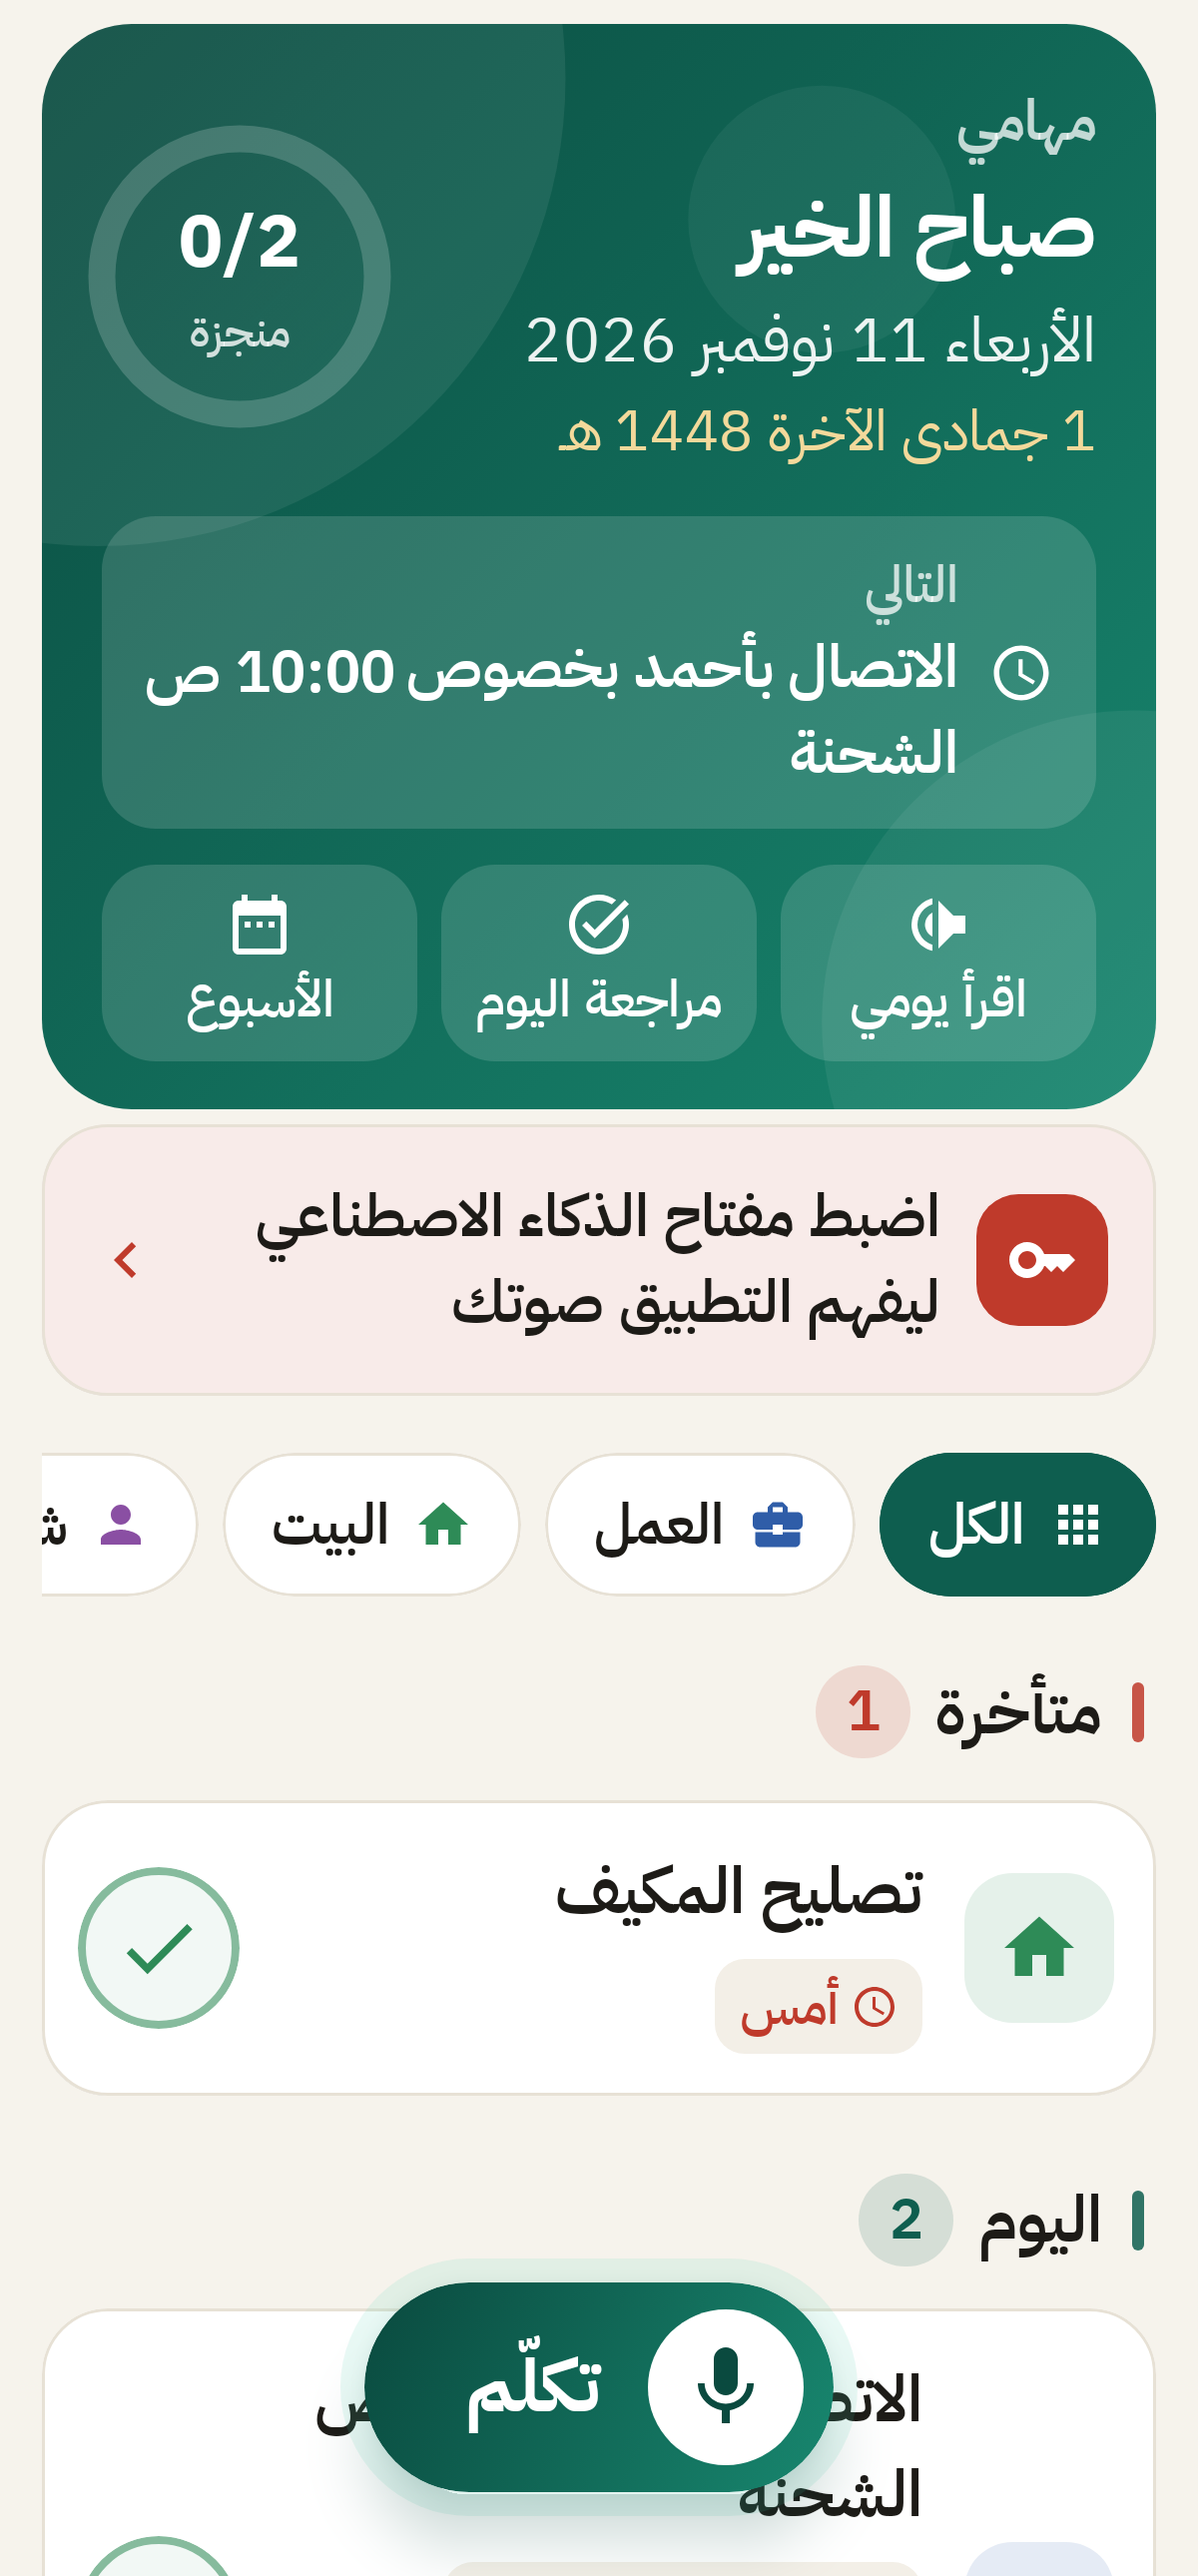
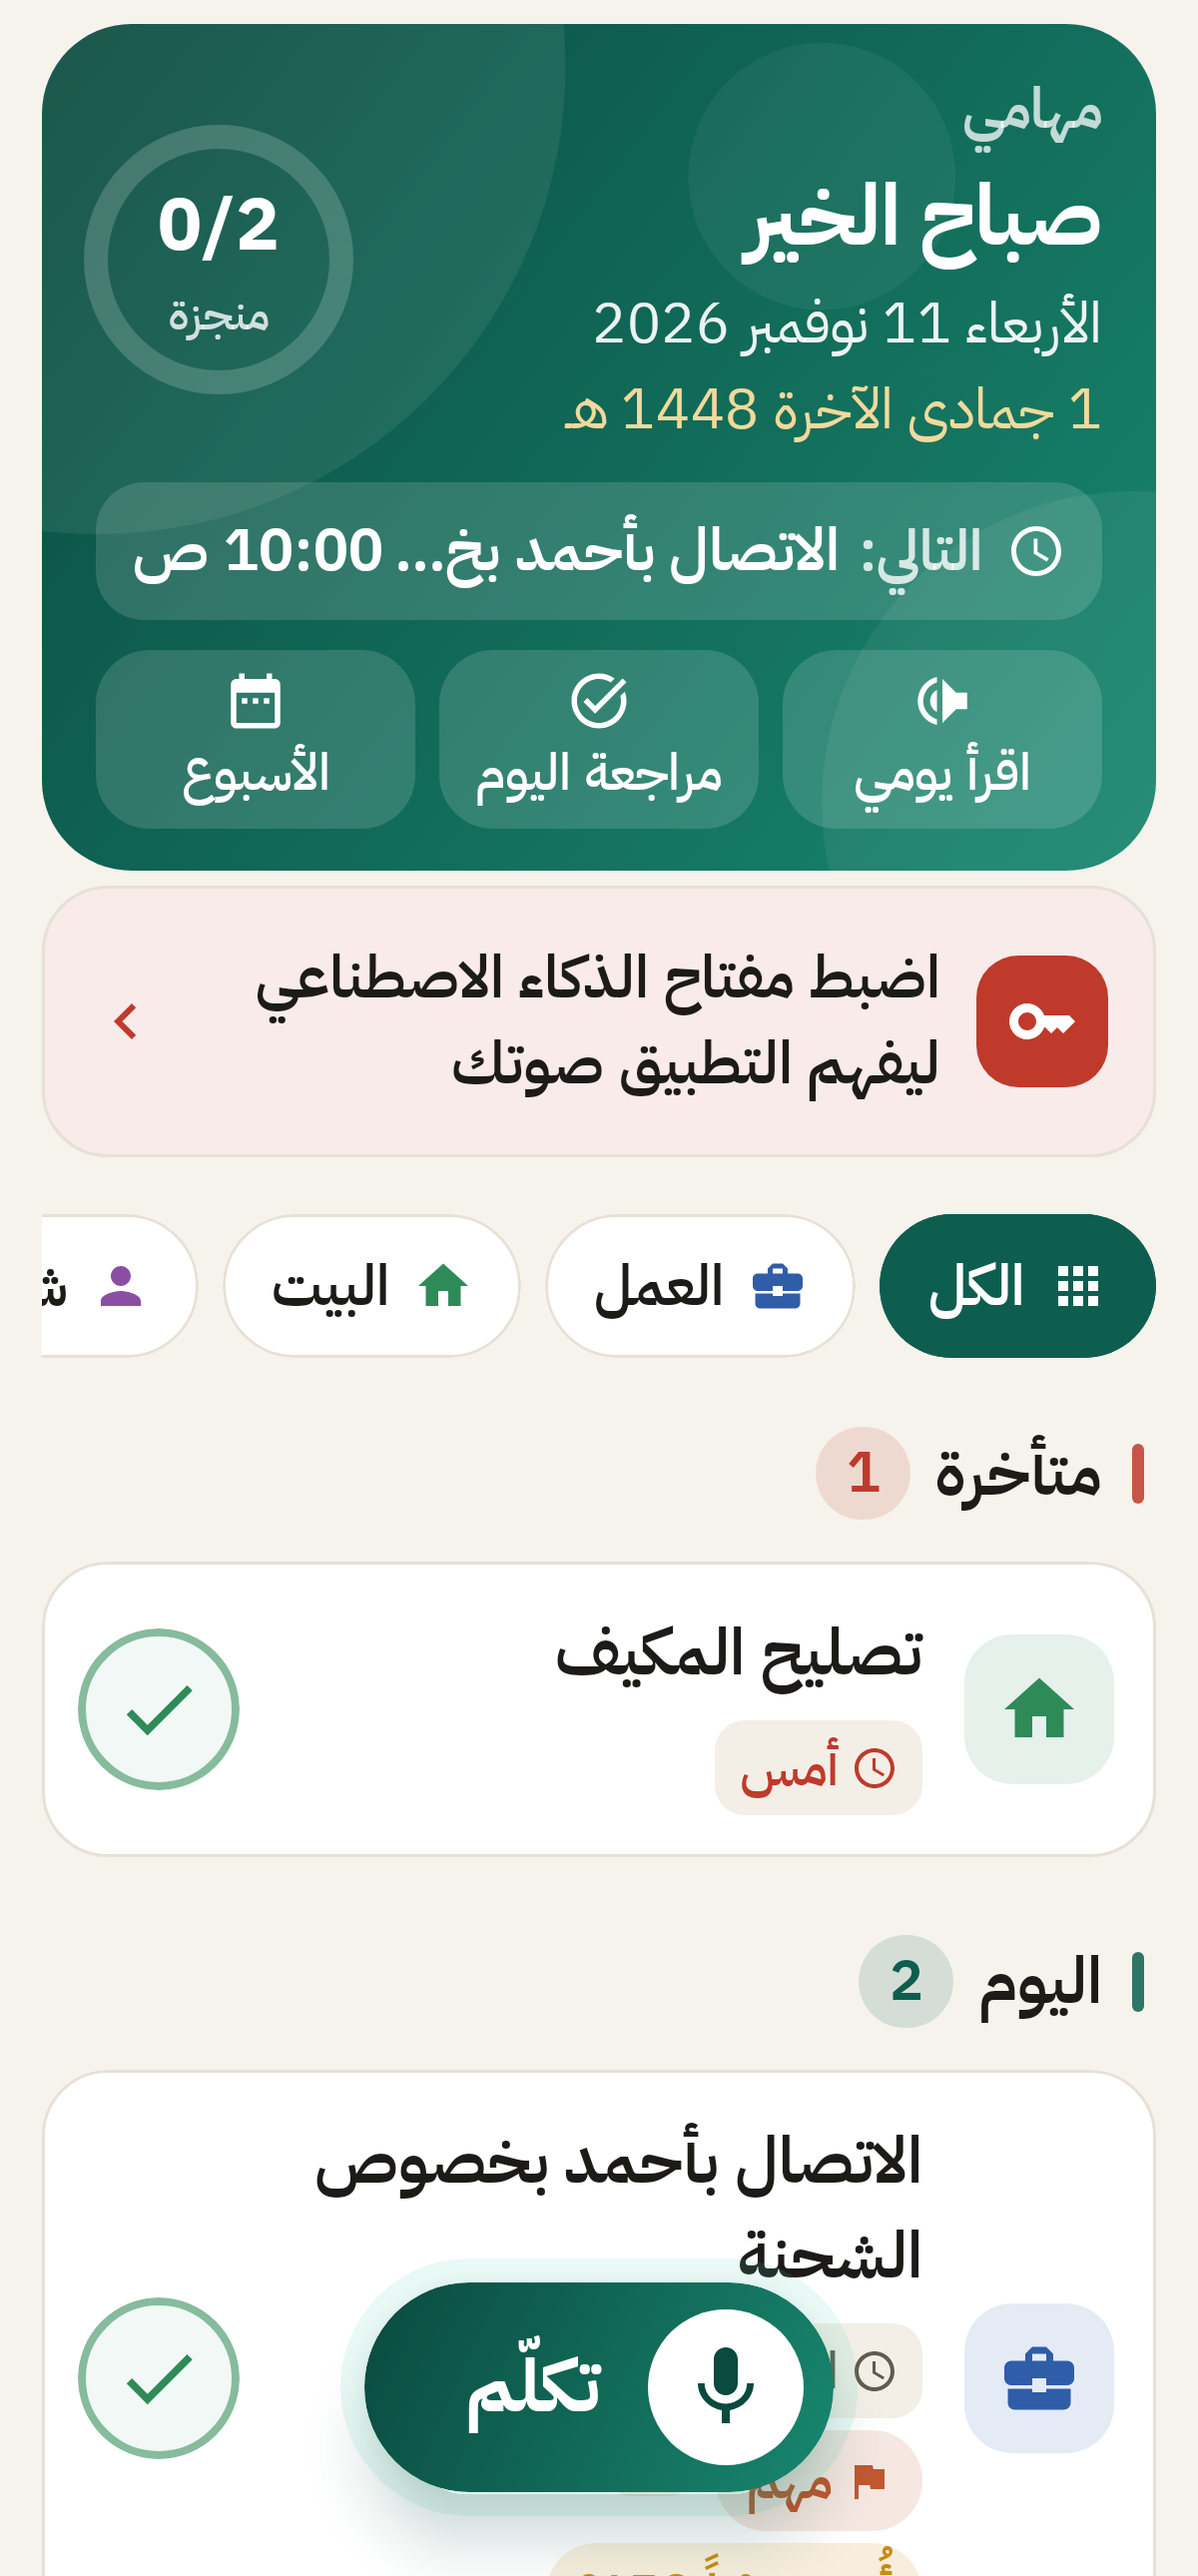
Compact Today header; suggestions always visible in Assistant
On small screens the new header pushed the task list below the fold,
and the Assistant's suggestion cards could sit off-screen. The header is
now shorter (one-line "next up", smaller ring and buttons), and the
ready-made questions are a chip row that is always visible above the
text box.

The emulator tests now scroll to a task before pressing it and press it
through its click action, so the floating talk button can't be in the way.

Claude-Session: https://claude.ai/code/session_01NdNsyMsEuGTVWQbFRyqqnj

diff --git a/app/src/main/java/io/github/kiraherk/smarttodo/ui/screens/TodayScreen.kt b/app/src/main/java/io/github/kiraherk/smarttodo/ui/screens/TodayScreen.kt
@@ -216,12 +216,12 @@ private fun HeroCard(
             .background(brand.heroBrush)
             .heroCircles(),
     ) {
-        Column(Modifier.padding(start = 20.dp, end = 20.dp, top = 18.dp, bottom = 16.dp)) {
+        Column(Modifier.padding(start = 18.dp, end = 18.dp, top = 14.dp, bottom = 14.dp)) {
             Row(verticalAlignment = Alignment.CenterVertically) {
                 Column(Modifier.weight(1f)) {
                     Text(stringResource(R.string.today_title), style = MaterialTheme.typography.labelLarge, color = Color.White.copy(alpha = 0.75f))
                     Text(greeting, style = MaterialTheme.typography.headlineMedium, color = Color.White)
-                    Text(Dates.fullDate(ctx, today), style = MaterialTheme.typography.bodyLarge, color = Color.White.copy(alpha = 0.92f))
+                    Text(Dates.fullDate(ctx, today), style = MaterialTheme.typography.bodyMedium, color = Color.White.copy(alpha = 0.92f))
                     Dates.hijriDate(ctx, today)?.let {
                         Text(it, style = MaterialTheme.typography.bodyMedium, color = if (brand.dark) brand.gold else Color(0xFFF3D99B))
                     }
@@ -230,23 +230,22 @@ private fun HeroCard(
                 ProgressRing(done, total)
             }
             if (next != null) {
-                Spacer(Modifier.size(14.dp))
+                Spacer(Modifier.size(10.dp))
                 Row(
-                    Modifier.fillMaxWidth().clip(RoundedCornerShape(18.dp)).background(Color.White.copy(alpha = 0.14f)).padding(horizontal = 14.dp, vertical = 10.dp),
+                    Modifier.fillMaxWidth().clip(RoundedCornerShape(16.dp)).background(Color.White.copy(alpha = 0.14f)).padding(horizontal = 12.dp, vertical = 8.dp),
                     verticalAlignment = Alignment.CenterVertically,
                 ) {
-                    Icon(Icons.Filled.Schedule, contentDescription = null, tint = Color.White, modifier = Modifier.size(22.dp))
-                    Spacer(Modifier.width(10.dp))
-                    Column(Modifier.weight(1f)) {
-                        Text(stringResource(R.string.next_up), style = MaterialTheme.typography.labelMedium, color = Color.White.copy(alpha = 0.75f))
-                        Text(next.task.title, style = MaterialTheme.typography.titleSmall, color = Color.White, maxLines = 2, overflow = TextOverflow.Ellipsis)
-                    }
+                    Icon(Icons.Filled.Schedule, contentDescription = null, tint = Color.White, modifier = Modifier.size(20.dp))
+                    Spacer(Modifier.width(8.dp))
+                    Text(stringResource(R.string.next_up) + ":", style = MaterialTheme.typography.labelLarge, color = Color.White.copy(alpha = 0.8f))
+                    Spacer(Modifier.width(6.dp))
+                    Text(next.task.title, style = MaterialTheme.typography.titleSmall, color = Color.White, maxLines = 1, overflow = TextOverflow.Ellipsis, modifier = Modifier.weight(1f))
                     Dates.parseTime(next.occurrence.time)?.let {
                         Text(Dates.friendlyTime(ctx, it), style = MaterialTheme.typography.titleSmall, color = Color.White)
                     }
                 }
             }
-            Spacer(Modifier.size(12.dp))
+            Spacer(Modifier.size(10.dp))
             Row(horizontalArrangement = Arrangement.spacedBy(8.dp)) {
                 QuickAction(Icons.AutoMirrored.Filled.VolumeUp, stringResource(R.string.read_my_day_short), stringResource(R.string.read_my_day), onRead)
                 QuickAction(Icons.Filled.TaskAlt, stringResource(R.string.review_today_short), stringResource(R.string.review_today), onReviewDay)
@@ -265,13 +264,13 @@ private fun androidx.compose.foundation.layout.RowScope.QuickAction(icon: ImageV
             .background(Color.White.copy(alpha = 0.14f))
             .semantics(mergeDescendants = true) { contentDescription = description }
             .clickable(role = Role.Button, onClick = onClick)
-            .heightIn(min = 64.dp)
-            .padding(horizontal = 6.dp, vertical = 8.dp),
+            .heightIn(min = 56.dp)
+            .padding(horizontal = 6.dp, vertical = 6.dp),
         horizontalAlignment = Alignment.CenterHorizontally,
         verticalArrangement = Arrangement.Center,
     ) {
-        Icon(icon, contentDescription = null, tint = Color.White, modifier = Modifier.size(24.dp))
-        Text(label, style = MaterialTheme.typography.labelMedium, color = Color.White, textAlign = TextAlign.Center, maxLines = 2)
+        Icon(icon, contentDescription = null, tint = Color.White, modifier = Modifier.size(22.dp))
+        Text(label, style = MaterialTheme.typography.labelMedium, color = Color.White, textAlign = TextAlign.Center, maxLines = 1, overflow = TextOverflow.Ellipsis)
     }
 }
 
@@ -281,9 +280,9 @@ private fun ProgressRing(done: Int, total: Int) {
     val brand = LocalBrand.current
     val fraction = if (total == 0) 0f else done.toFloat() / total
     val gold = Color(0xFFF3D99B)
-    Box(Modifier.size(92.dp), contentAlignment = Alignment.Center) {
+    Box(Modifier.size(82.dp), contentAlignment = Alignment.Center) {
         Canvas(Modifier.fillMaxSize()) {
-            val stroke = 9.dp.toPx()
+            val stroke = 8.dp.toPx()
             drawArc(Color.White.copy(alpha = 0.18f), 0f, 360f, false, style = Stroke(stroke))
             if (fraction > 0f) drawArc(if (brand.dark) brand.gold else gold, -90f, 360f * fraction, false, style = Stroke(stroke, cap = StrokeCap.Round))
         }

diff --git a/app/src/main/java/io/github/kiraherk/smarttodo/ui/screens/AssistantScreen.kt b/app/src/main/java/io/github/kiraherk/smarttodo/ui/screens/AssistantScreen.kt
@@ -120,18 +120,7 @@ fun AssistantScreen() {
                 contentPadding = PaddingValues(horizontal = 14.dp, vertical = 8.dp),
                 verticalArrangement = Arrangement.spacedBy(10.dp),
             ) {
-                if (messages.isEmpty()) {
-                    item { EmptyState(emptyText, Icons.Filled.AutoAwesome) }
-                    items(suggestions) { s ->
-                        AppCard(onClick = { voice.ask(s) }, padding = PaddingValues(horizontal = 16.dp, vertical = 14.dp)) {
-                            Row(verticalAlignment = Alignment.CenterVertically) {
-                                Icon(Icons.Filled.AutoAwesome, contentDescription = null, tint = MaterialTheme.colorScheme.secondary, modifier = Modifier.size(22.dp))
-                                Spacer(Modifier.width(12.dp))
-                                Text(s, style = MaterialTheme.typography.titleSmall, modifier = Modifier.weight(1f))
-                            }
-                        }
-                    }
-                }
+                if (messages.isEmpty()) item { EmptyState(emptyText, Icons.Filled.AutoAwesome) }
                 items(messages, key = { it.id }) { m ->
                     val mine = m.role == ChatRole.USER.name
                     Row(
@@ -173,19 +162,20 @@ fun AssistantScreen() {
                     }
                 }
             }
-            if (messages.isNotEmpty()) {
-                Row(
-                    Modifier.horizontalScroll(rememberScrollState()).padding(horizontal = 14.dp, vertical = 4.dp),
-                    horizontalArrangement = Arrangement.spacedBy(8.dp),
-                ) {
-                    suggestions.forEach { s ->
-                        Text(
-                            s,
-                            style = MaterialTheme.typography.labelLarge,
-                            color = MaterialTheme.colorScheme.onSecondaryContainer,
-                            modifier = Modifier.clip(RoundedCornerShape(50)).background(MaterialTheme.colorScheme.secondaryContainer)
-                                .clickable { voice.ask(s) }.padding(horizontal = 14.dp, vertical = 9.dp),
-                        )
+            // Ready-made questions: always visible, one tap each.
+            Row(
+                Modifier.horizontalScroll(rememberScrollState()).padding(horizontal = 14.dp, vertical = 4.dp),
+                horizontalArrangement = Arrangement.spacedBy(8.dp),
+            ) {
+                suggestions.forEach { s ->
+                    Row(
+                        Modifier.clip(RoundedCornerShape(50)).background(MaterialTheme.colorScheme.secondaryContainer)
+                            .clickable { voice.ask(s) }.padding(horizontal = 14.dp, vertical = 10.dp),
+                        verticalAlignment = Alignment.CenterVertically,
+                    ) {
+                        Icon(Icons.Filled.AutoAwesome, contentDescription = null, tint = MaterialTheme.colorScheme.secondary, modifier = Modifier.size(18.dp))
+                        Spacer(Modifier.width(6.dp))
+                        Text(s, style = MaterialTheme.typography.labelLarge, color = MaterialTheme.colorScheme.onSecondaryContainer)
                     }
                 }
             }

diff --git a/app/src/androidTest/java/io/github/kiraherk/smarttodo/AppOnDeviceTest.kt b/app/src/androidTest/java/io/github/kiraherk/smarttodo/AppOnDeviceTest.kt
@@ -1,6 +1,10 @@
 package io.github.kiraherk.smarttodo
 
 import androidx.compose.ui.test.hasScrollToNodeAction
+import androidx.compose.ui.test.performSemanticsAction
+import androidx.compose.ui.test.hasContentDescription
+import androidx.compose.ui.test.hasClickAction
+import androidx.compose.ui.semantics.SemanticsActions
 import androidx.compose.ui.test.hasSetTextAction
 import androidx.compose.ui.test.hasText
 import androidx.compose.ui.test.performScrollToNode
@@ -90,8 +94,11 @@ class AppOnDeviceTest {
         compose.waitForText("اتصل بالبنك")
         shot("03-today-tasks")
 
-        // The first ✓ belongs to the late task (late tasks are listed first).
-        compose.clickableDesc(str(R.string.mark_done)).performClick()
+        // The first ✓ belongs to the late task (late tasks are listed first). On a small screen the
+        // list starts below the header, so scroll to it first; press it directly so the floating
+        // talk button can never be in the way.
+        compose.onNode(hasScrollToNodeAction()).performScrollToNode(hasContentDescription(str(R.string.mark_done)) and hasClickAction())
+        compose.clickableDesc(str(R.string.mark_done)).performSemanticsAction(SemanticsActions.OnClick)
         compose.waitUntilTrue { statusOf(late) == TaskStatus.DONE }
 
         // The trip is further down the list: scroll to it like he would.
@@ -119,7 +126,8 @@ class AppOnDeviceTest {
         val id = create(TaskRepository.NewTask("تقرير المبيعات", category = CategoryKey.WORK, date = today()))
         launch()
         compose.waitForText("تقرير المبيعات")
-        compose.clickable("تقرير المبيعات").performClick()
+        compose.onNode(hasScrollToNodeAction()).performScrollToNode(hasText("تقرير المبيعات") and hasClickAction())
+        compose.clickable("تقرير المبيعات").performSemanticsAction(SemanticsActions.OnClick)
         compose.waitForText(str(R.string.add_voice_note))
         compose.clickable(str(R.string.status_partly)).performClick()
         compose.waitForText(str(R.string.how_much_done))
